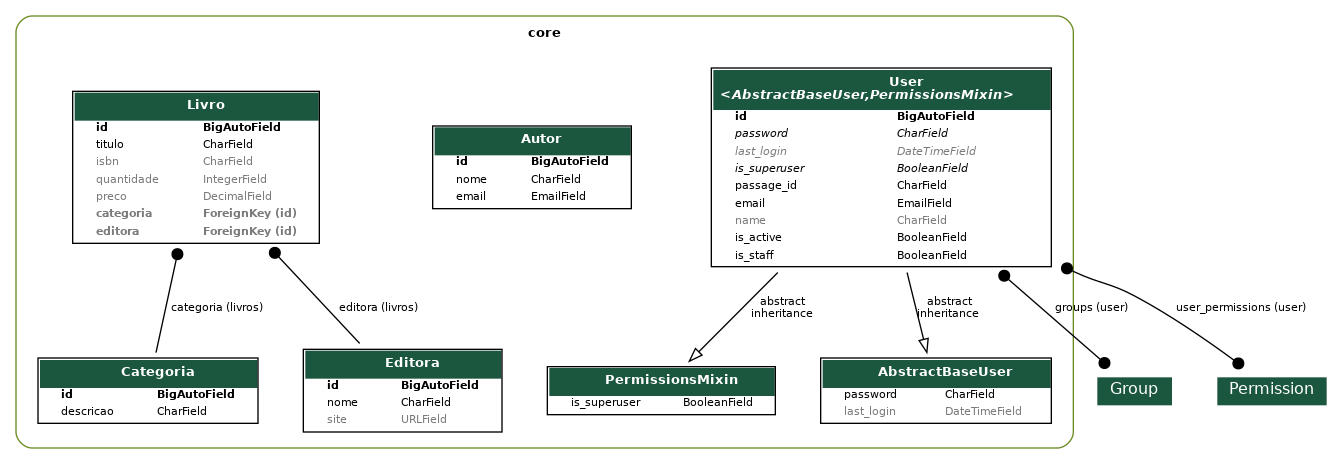
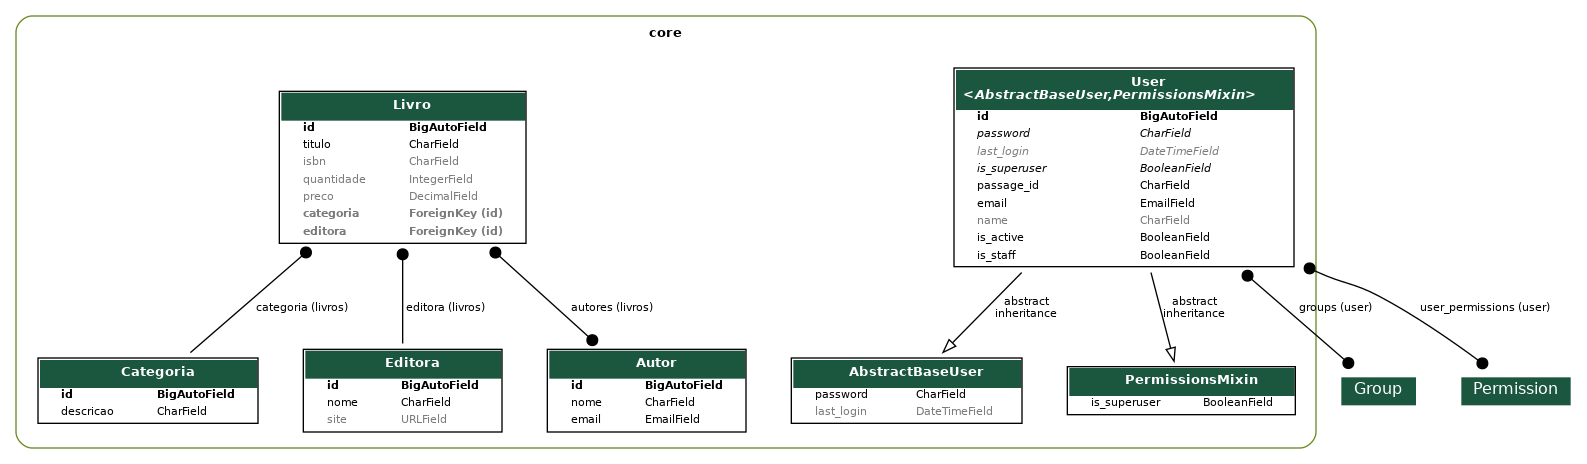
feat: inclusão do relacionamento n para n entre Livro e Autor

diff --git a/core/models/livro.py b/core/models/livro.py
@@ -1,7 +1,7 @@
 from django.db import models
 from .categoria import Categoria
 from .editora import Editora
-
+from .autor import Autor 
 
 
 class Livro(models.Model):
@@ -13,6 +13,7 @@ class Livro(models.Model):
         Categoria, on_delete=models.PROTECT, related_name="livros", null=True, blank=True
     )
     editora = models.ForeignKey(Editora, on_delete=models.PROTECT, related_name="livros", null=True, blank=True)
+    autores = models.ManyToManyField(Autor, related_name="livros", blank=True)
 
     def __str__(self):
         return f"({self.id}) {self.titulo} ({self.quantidade})"

diff --git a/core/migrations/0010_livro_autores.py b/core/migrations/0010_livro_autores.py
@@ -1,0 +1,18 @@
+# Generated by Django 5.1.7 on 2025-06-11 12:17
+
+from django.db import migrations, models
+
+
+class Migration(migrations.Migration):
+
+    dependencies = [
+        ('core', '0009_livro_categoria_livro_editora'),
+    ]
+
+    operations = [
+        migrations.AddField(
+            model_name='livro',
+            name='autores',
+            field=models.ManyToManyField(blank=True, related_name='livros', to='core.autor'),
+        ),
+    ]
